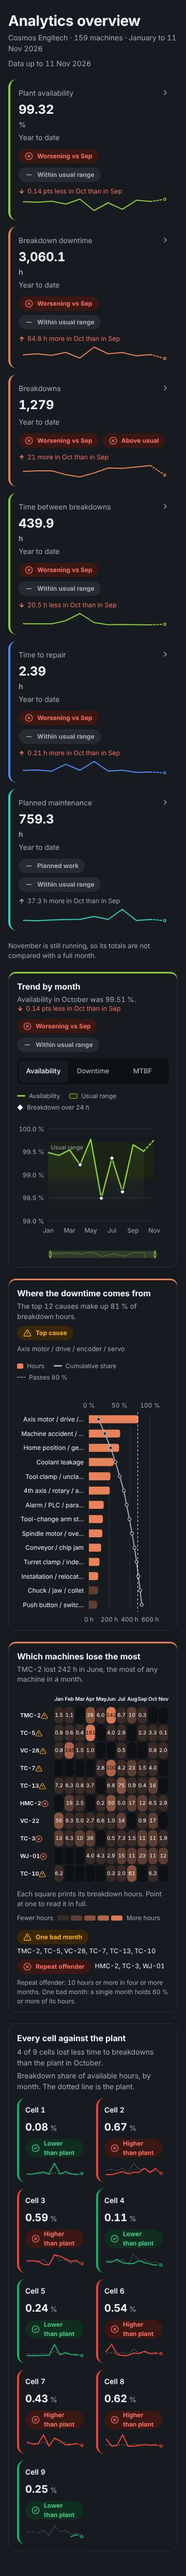
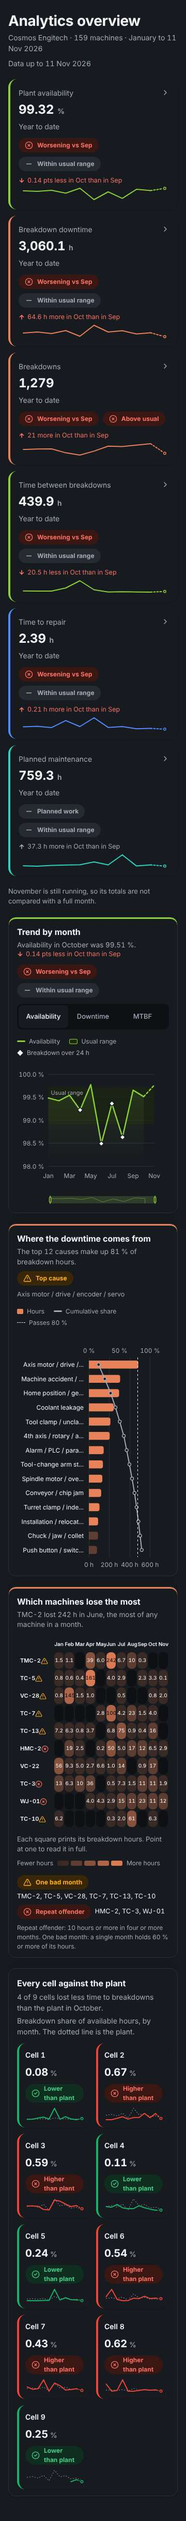
83c-2: review round: one owner of the page theme, tighter tests, quiet tile line, short unit beside the figure
Claude-Session: https://claude.ai/code/session_01KEBF26istx9ETY2T7Vyzc3

diff --git a/apps/web/src/ui/elements/showcase-needs.test.ts b/apps/web/src/ui/elements/showcase-needs.test.ts
@@ -2,6 +2,7 @@
 import { createElement } from 'react';
 import { renderToStaticMarkup } from 'react-dom/server';
 import { describe, expect, it } from 'vitest';
+import { rootTheme } from '../../gallery/showcase/theme.js';
 import { HeatGrid } from './heat-grid.js';
 import { KpiTile } from './kpi-tile.js';
 
@@ -35,14 +36,34 @@ describe('a heat grid that answers the pointer', () => {
   });
   it('lights the rows and the column it is told to', () => {
     const out = grid({ link: { onPoint: () => {}, column: 1, rows: ['TC-5'] } });
-    expect(out.match(/<tr data-link/g)).toHaveLength(1);
-    expect(out.match(/data-on/g)?.length).toBeGreaterThanOrEqual(3);
+    // Only the pointed-at machine's row is lit, and it is the TC-5 row.
+    expect(out.match(/<tr data-link=""/g)).toHaveLength(1);
+    expect(out).toMatch(/<tr data-link=""[^>]*><th[^>]*>TC-5/);
+    // Only the February header and the February squares carry `data-on`.
+    expect(out.match(/<th[^>]*data-on=""/g)).toHaveLength(1);
+    expect(out).toMatch(/<th[^>]*data-on=""[^>]*><span aria-hidden="true">Feb</);
+    const squares = out.match(/<td[^>]*data-on=""[^>]*>/g) ?? [];
+    expect(squares).toHaveLength(2);
+    for (const square of squares) expect(square).toContain('data-c="1"');
   });
   it('gives the squares one tab stop when it answers the pointer, none when it does not', () => {
-    expect(grid()).not.toContain('tabindex="0" class="el-pop');
+    expect(grid()).not.toMatch(/<td[^>]*tabindex=/);
     const linked = grid({ link: { onPoint: () => {} } });
     expect(linked.match(/<td[^>]*tabindex="0"/g)).toHaveLength(1);
     expect(linked.match(/<td[^>]*tabindex="-1"/g)).toHaveLength(3);
+  });
+});
+
+describe('who owns the page theme in the gallery', () => {
+  it('lets the showcase follow the system when no theme is asked for', () => {
+    expect(rootTheme('showcase', null, 'dark')).toBe('dark');
+    expect(rootTheme('showcase', 'light', 'dark')).toBe('light');
+    expect(rootTheme('showcase', 'dark', 'light')).toBe('dark');
+  });
+  it('keeps every other view light unless dark is asked for, whatever the system says', () => {
+    expect(rootTheme(null, null, 'dark')).toBe('light');
+    expect(rootTheme('elements', null, 'dark')).toBe('light');
+    expect(rootTheme('elements', 'dark', 'light')).toBe('dark');
   });
 });
 
@@ -55,7 +76,15 @@ describe('a figure tile with its own tags and detail', () => {
       note: 'Year to date',
       tags: [{ tone: 'bad', word: 'Worsening' }],
       detail: createElement('span', null, '21 more than in Sep'),
-      trend: { values: [1, null, 3], label: 'Breakdowns by month', partial: true, wide: true },
+      trend: {
+        values: [1, null, 3],
+        label: 'Breakdowns by month',
+        partial: true,
+        wide: true,
+        quiet: true,
+      },
+      unit: 'h',
+      unitBeside: true,
       testId: 'kpi-x',
       valueTestId: 'kpi-x-value',
       onOpen: () => {},
@@ -67,7 +96,9 @@ describe('a figure tile with its own tags and detail', () => {
     expect(tile.indexOf('Year to date')).toBeLessThan(tile.indexOf('Worsening'));
     expect(tile.indexOf('Worsening')).toBeLessThan(tile.indexOf('21 more than in Sep'));
   });
-  it('draws the line with its words', () => {
-    expect(tile).toContain('aria-label="Breakdowns by month"');
+  it('keeps a quiet line out of the button name, and a short unit beside the figure', () => {
+    expect(tile).not.toContain('Breakdowns by month');
+    expect(tile).not.toContain('role="img"');
+    expect(tile).not.toContain('block');
   });
 });

diff --git a/apps/web/src/gallery/showcase/theme.ts b/apps/web/src/gallery/showcase/theme.ts
@@ -1,13 +1,11 @@
-import { useEffect, useLayoutEffect, useState } from 'react';
+import { useEffect, useState } from 'react';
 import { useSearchParams } from 'react-router-dom';
 import type { Theme } from '../directions/direction-props.js';
 
 const DARK = '(prefers-color-scheme: dark)';
 
-/** The theme the showcase is drawn in: `?theme=dark` or `?theme=light` (the gallery's own switch) wins, else the system's, followed live. */
-export function useTheme(): Theme {
-  const [params] = useSearchParams();
-  const asked = params.get('theme');
+/** The system's theme, followed live. */
+export function useSystemTheme(): Theme {
   const [system, setSystem] = useState<Theme>(() =>
     window.matchMedia(DARK).matches ? 'dark' : 'light',
   );
@@ -17,24 +15,22 @@ export function useTheme(): Theme {
     query.addEventListener('change', on);
     return () => query.removeEventListener('change', on);
   }, []);
+  return system;
+}
+
+/** The theme the showcase is drawn in: `?theme=dark` or `?theme=light` (the gallery's own switch) wins, else the system's, followed live. */
+export function useTheme(): Theme {
+  const [params] = useSearchParams();
+  const system = useSystemTheme();
+  const asked = params.get('theme');
   return asked === 'dark' || asked === 'light' ? asked : system;
 }
 
-/** Puts the direction's tokens and the theme on <html> (the sheet and the chart tooltips are portals), and puts them back on leaving. The shared elements read the kit's dark tokens (the ramp, each tone's ink) from `data-theme`. */
-export function useRootTokens(props: Record<string, string>, theme: Theme): void {
-  useLayoutEffect(() => {
-    const root = document.documentElement;
-    const style = root.style;
-    for (const [name, value] of Object.entries(props)) style.setProperty(name, value);
-    style.colorScheme = theme;
-    const before = root.dataset.theme;
-    if (theme === 'dark') root.dataset.theme = 'dark';
-    else delete root.dataset.theme;
-    return () => {
-      Object.keys(props).forEach((name) => style.removeProperty(name));
-      style.removeProperty('color-scheme');
-      if (before === undefined) delete root.dataset.theme;
-      else root.dataset.theme = before;
-    };
-  }, [props, theme]);
+/**
+ * The theme the gallery puts on <html data-theme> (the one owner of that attribute): the showcase follows the system
+ * when no theme is asked for, so the shared elements read their dark tokens; every other view is light unless dark is asked for.
+ */
+export function rootTheme(view: string | null, asked: string | null, system: Theme): Theme {
+  if (view === 'showcase') return asked === 'dark' || asked === 'light' ? asked : system;
+  return asked === 'dark' ? 'dark' : 'light';
 }

diff --git a/apps/web/src/ui/elements/kpi-tile.tsx b/apps/web/src/ui/elements/kpi-tile.tsx
@@ -27,9 +27,13 @@ interface KpiTileBase {
     active?: number | null;
     /** Fill the tile's width instead of a small line beside the change. */
     wide?: boolean;
+    /** Keep the line out of a screen reader's reading (the figure and its change already say it); on a tile that is a button it stays out of the button's name. */
+    quiet?: boolean;
   };
   /** The word unit, printed smaller beside the value (`format` then returns the number alone). */
   unit?: string;
+  /** Keep a short unit (`%`, `h`) on the figure's line on a phone, where a word unit drops under it. */
+  unitBeside?: boolean;
   /** A quiet line in no tone, for what is not a verdict (an amount added since the last period). */
   note?: string;
   /** A small mark at the label's end on a plain tile that something else (a link over it) makes tappable. A tile with `onOpen` draws its own chevron and ignores this, so a tile never shows two. */
@@ -99,11 +103,13 @@ function Headline({
   unit,
   as: Tag,
   testId,
+  beside,
 }: {
   figure: string;
   unit?: string;
   as: 'span' | 'dd';
   testId?: string;
+  beside?: boolean;
 }) {
   return (
     <Tag className={`text-title2 font-bold tabular-nums ${WRAP}`}>
@@ -111,7 +117,9 @@ function Headline({
       {unit && figure !== NO_VALUE ? (
         <>
           {' '}
-          <span className="block whitespace-nowrap text-footnote font-semibold text-neutral-600 sm:inline">
+          <span
+            className={`whitespace-nowrap text-footnote font-semibold text-neutral-600 ${beside ? '' : 'block sm:inline'}`}
+          >
             {unit}
           </span>
         </>
@@ -145,6 +153,7 @@ function KpiButton(p: Shown) {
         unit={typeof p.value === 'string' ? undefined : p.unit}
         as="span"
         testId={p.valueTestId}
+        beside={p.unitBeside}
       />
       {p.verdict ? (
         <span>
@@ -172,6 +181,7 @@ function KpiPlain(p: Shown) {
         unit={typeof p.value === 'string' ? undefined : p.unit}
         as="dd"
         testId={p.valueTestId}
+        beside={p.unitBeside}
       />
       {p.verdict ? (
         <dd>
@@ -205,6 +215,7 @@ function Moves({ change, trend, own, family, as: Tag }: Shown & { as: 'span' | '
           partial={trend.partial}
           active={trend.active}
           wide={trend.wide}
+          quiet={trend.quiet}
         />
       ) : null}
     </Tag>

diff --git a/apps/web/src/gallery/showcase/Showcase.tsx b/apps/web/src/gallery/showcase/Showcase.tsx
@@ -1,4 +1,4 @@
-import { useMemo, useState } from 'react';
+import { useLayoutEffect, useMemo, useState } from 'react';
 import { useTranslation } from 'react-i18next';
 import { directionProps } from '../directions/direction-props.js';
 import { instrument } from '../directions/direction-instrument.js';
@@ -10,7 +10,7 @@ import { KpiTile } from './kpi-tile.js';
 import { ParetoChart } from './pareto-chart.js';
 import { TrendChart, type Hover } from './trend-chart.js';
 import { figure } from '../directions/figures.js';
-import { useRootTokens, useTheme } from './theme.js';
+import { useTheme } from './theme.js';
 import './strings.js';
 import './showcase.css';
 import './showcase-grids.css';
@@ -26,7 +26,16 @@ export default function Showcase() {
   const { t } = useTranslation('showcase');
   const theme = useTheme();
   const props = useMemo(() => directionProps(instrument, theme), [theme]);
-  useRootTokens(props, theme);
+  // On <html>, not on the root, so the sheet (a portal) and the chart tooltips inherit the same tokens.
+  useLayoutEffect(() => {
+    const style = document.documentElement.style;
+    for (const [name, value] of Object.entries(props)) style.setProperty(name, value);
+    style.colorScheme = theme;
+    return () => {
+      Object.keys(props).forEach((name) => style.removeProperty(name));
+      style.removeProperty('color-scheme');
+    };
+  }, [props, theme]);
   const [hover, setHover] = useState<Hover>({ month: null, from: 'other' });
   const [machines, setMachines] = useState<string[]>([]);
   const [sheet, setSheet] = useState<{ metric: Metric | null; open: boolean }>({

diff --git a/apps/web/src/ui/elements/sparkline.tsx b/apps/web/src/ui/elements/sparkline.tsx
@@ -57,6 +57,12 @@ function shape(
   };
 }
 
+const IMAGE = 'img';
+
+/** A line is an image with words; a quiet one is decoration, hidden from a screen reader. */
+const reading = (label: string, quiet?: boolean) =>
+  quiet ? { 'aria-hidden': true as const } : { role: IMAGE, 'aria-label': label };
+
 /** A round dot of fixed size, however the box is stretched: a zero-length line with round caps. */
 function Dot({ at, hollow = false, ink }: { at: Point; hollow?: boolean; ink: string }) {
   const d = `M${at[0]} ${at[1]}h0`;
@@ -90,6 +96,7 @@ export function Sparkline({
   family,
   label,
   wide = false,
+  quiet,
 }: {
   values: Series;
   reference?: Series;
@@ -100,6 +107,8 @@ export function Sparkline({
   family?: Family;
   label: string;
   wide?: boolean;
+  /** Decoration: hidden from a screen reader (the figure beside it says it). */
+  quiet?: boolean;
 }) {
   const g = shape(values, reference, active, partial);
   if (!g) return null;
@@ -107,8 +116,7 @@ export function Sparkline({
   const line = { vectorEffect: 'non-scaling-stroke' as const, strokeWidth: 2 };
   return (
     <svg
-      role="img"
-      aria-label={label}
+      {...reading(label, quiet)}
       viewBox={`0 0 ${WIDTH} ${HEIGHT}`}
       preserveAspectRatio="none"
       className={`el-draw h-7 shrink-0 overflow-visible ${wide ? 'w-full' : 'w-24'}`}

diff --git a/apps/web/src/gallery/Gallery.tsx b/apps/web/src/gallery/Gallery.tsx
@@ -23,6 +23,7 @@ import { ShellSection } from './shell-section.js';
 import { registerGalleryStrings } from './strings.js';
 import { TokensSection } from './tokens-section.js';
 import { WizardSection } from './wizard-section.js';
+import { rootTheme, useSystemTheme } from './showcase/theme.js';
 
 registerGalleryStrings();
 
@@ -167,7 +168,7 @@ export default function Gallery() {
   const [params] = useSearchParams();
   const lang = params.get('lang') === 'gu' ? 'gu' : 'en';
   const accent = params.get('accent') === 'blue' ? 'blue' : 'teal';
-  const theme = params.get('theme') === 'dark' ? 'dark' : 'light';
+  const theme = rootTheme(params.get('view'), params.get('theme'), useSystemTheme());
   useDocumentAttributes(lang, accent, theme);
   const View = viewFor(params.get('view'));
   if (View) return <View />;

diff --git a/apps/web/src/ui/elements/heat-grid.tsx b/apps/web/src/ui/elements/heat-grid.tsx
@@ -89,8 +89,11 @@ interface HeatGridProps {
 export function HeatGrid(props: HeatGridProps) {
   const { label, rows, columns, values, format, link } = props;
   const compact = props.compact ?? false;
-  const [cur, setCur] = useState('0-0');
+  const [held, setCur] = useState('0-0');
   if (rows.length === 0 || columns.length === 0) return null;
+  // The tab stop stays on a square that exists when rows or columns shrink.
+  const [hr, hc] = held.split('-').map(Number);
+  const cur = hr! < rows.length && hc! < columns.length ? held : '0-0';
   const present = values.flat().filter((v): v is number => v !== undefined && Number.isFinite(v));
   const max = Math.max(...present);
   const scale: Scale = { min: Math.min(...present), max, family: props.family, mostValue: max };

diff --git a/apps/web/src/gallery/showcase/kpi-tile.tsx b/apps/web/src/gallery/showcase/kpi-tile.tsx
@@ -26,6 +26,7 @@ export function KpiTile({
       value={metric.headline}
       format={(n) => fixed(n, metric.digits)}
       unit={metric.unit || undefined}
+      unitBeside
       family={FAMILY[metric.id]}
       note={t('tile.span')}
       tags={monthTags(t, metric, LAST_FULL)}
@@ -36,6 +37,7 @@ export function KpiTile({
         partial: PARTIAL,
         active,
         wide: true,
+        quiet: true,
       }}
       testId={`kpi-${metric.id}`}
       valueTestId={`kpi-${metric.id}-value`}
